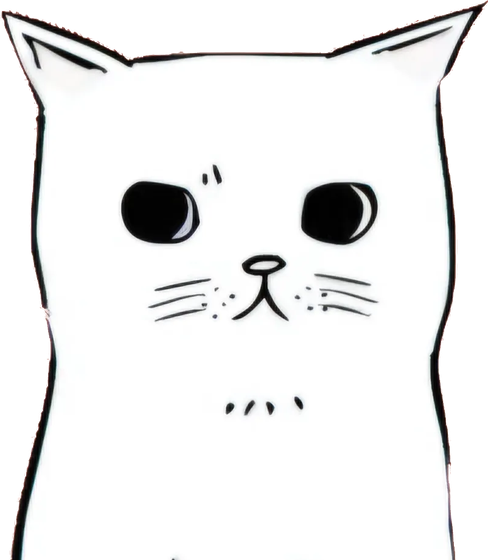
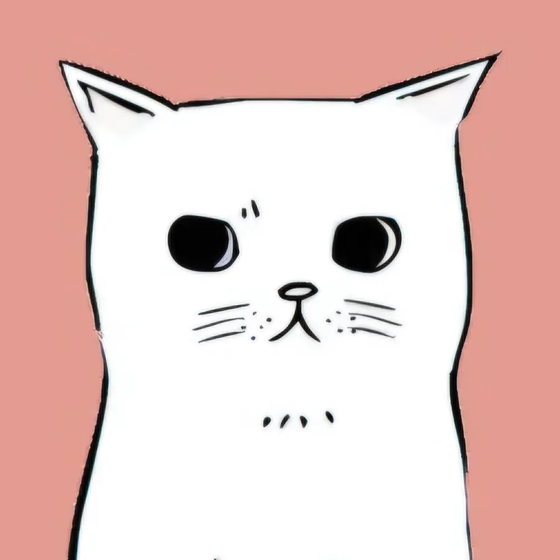
고양이 분홍 배경을 살리고 진행중 논문을 올린다
- 고양이를 분홍 배경째 네모로 잘라 넣는다. 배경까지가 표식이다
- 인스타그램을 푸터에만 남기고 어바웃과 CV에서 뺀다
- 지속 가능한 연극에 관한 질문 전환을 2026.10.23로 올린다.
  노션 작성일도 함께 채웠다

Claude-Session: https://claude.ai/code/session_01LRVvMty1TVqDfDgGughD6X

diff --git a/src/assets/style.css b/src/assets/style.css
@@ -107,7 +107,7 @@ ul{padding:0;list-style:none}
 
 /* opening */
 .opening{display:flex;align-items:center;gap:clamp(18px,3.5vw,44px);padding-block:clamp(30px,4.5vw,56px)}
-.opening .mark{flex:none;width:clamp(84px,9vw,124px);height:auto;align-self:flex-end}
+.opening .mark{flex:none;width:clamp(88px,9.5vw,132px);height:auto;border-radius:12px;align-self:center}
 .opening h1{font-weight:500;font-size:clamp(22px,2.5vw,31px);line-height:1.45;letter-spacing:-.035em;color:var(--on-yellow);text-wrap:balance}
 
 /* shared */

diff --git a/src/writing/2026-10-23-sustainable.md b/src/writing/2026-10-23-sustainable.md
@@ -1,0 +1,8 @@
+---
+title: "지속 가능한 연극에 관한 질문 전환 - 성북동비둘기의 빈 무대와 기후정의 - (진행중)"
+slug: sustainable
+category: academic
+date: 2026-10-23
+source: "국립극장"
+onsite: false
+---
